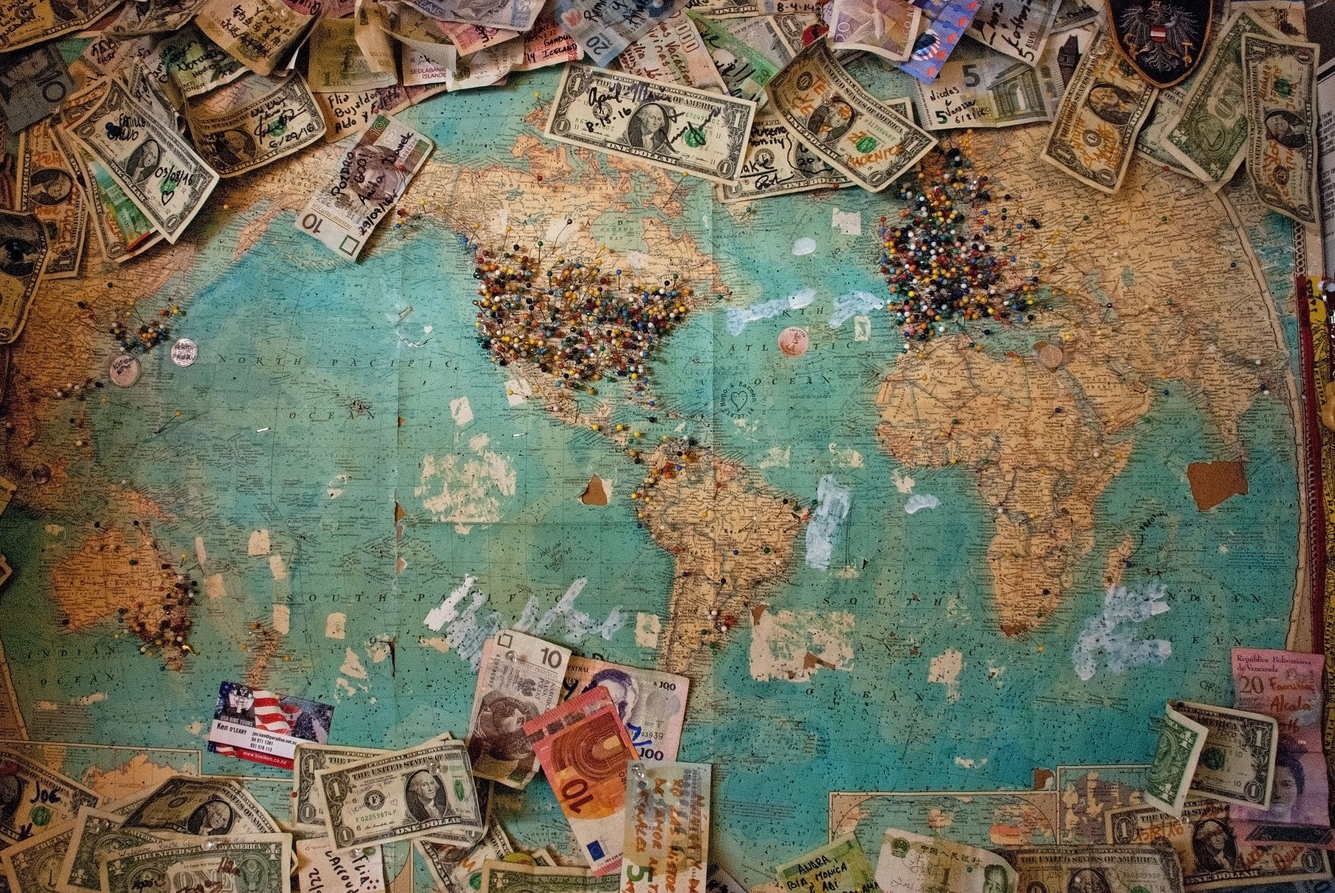
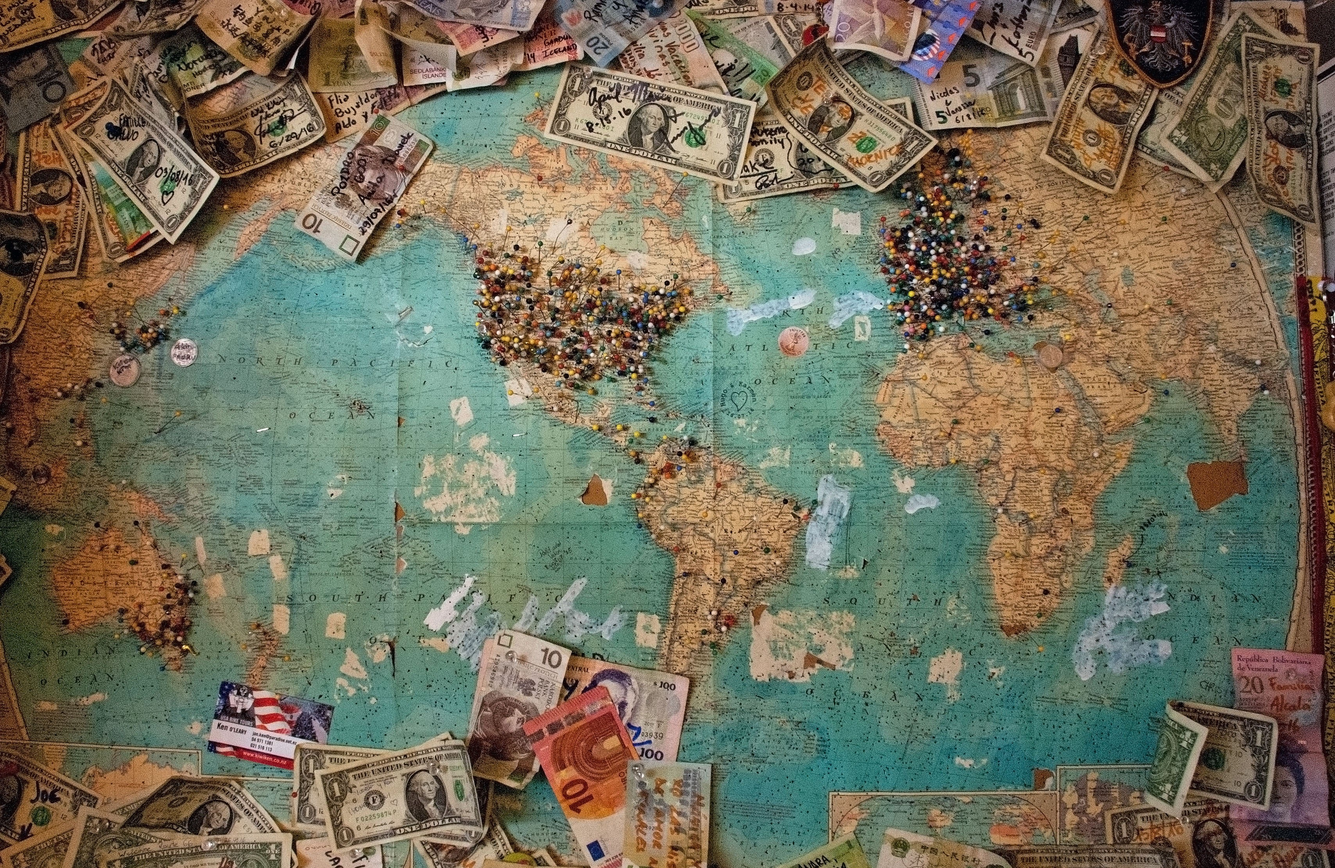
Changed the home page view.
-Resized map.jpg to match other images
- Enabled linking options for the locations,ratings and reviews page

diff --git a/index.html b/index.html
@@ -50,6 +50,13 @@
         .navbar{
             width: 100%;
         }
+
+        #locationImage{
+          width: 100%;
+        }
+
+        
+
     </style>
     <title>Food Web</title>
 
@@ -94,12 +101,12 @@
 
     <form class="form-inline">
         <div class="form-group">
-            <label class="sr-only" for="email">Email Address</label>
 
             <div class="input-group">
-                <input id ="searchButton" type="text" class="form-control" id="email" placeholder="Type your search here">
+                <input  type="text" class="form-control" id="email" placeholder="Type your search here">
             </div>
         </div>
+
 
 
         <button type="submit" class="btn btn-primary">Search</button>
@@ -119,10 +126,11 @@
 <div class="container" id="about">
     <div class="card-deck" >
         <div class="card">
-            <img class="card-img-top" src="images/map.jpg" alt="Card image cap">
+            <a href="#"> <img class="card-img-top" id="locationImage" src="images/map.jpg" alt="Card image cap"></a>
             <div class="card-body">
+                <a href= "#" >
                 <h4 class="card-title"><i class="fa fa-map-marker" aria-hidden="true"></i>
-                    Location</h4>
+                    Location</a></h4>
                 <p class="card-text">Gives you search results according to your location.</p>
 
             </div>
@@ -131,18 +139,22 @@
             <a href = "ratings.html"><img class="card-img-top" src="images/ratingstar.jpg" alt="Card image cap"></a>
             <div class="card-body">
                 <a href = "ratings.html">
-                    <h4 class="card-title"><i class="fa fa-star" aria-hidden="true"></i>Ratings</h4>
-                    <p class="card-text">Sorts the search results according to the ratings.</p>
+                    <h4 class="card-title"><i class="fa fa-star" aria-hidden="true"></i> Ratings</h4>
                 </a>
+                    <p class="card-text">Sorts the search results according to the ratings.</p>
+
 
             </div>
         </div>
         <div class="card">
             <a href="review.html">  <img class="card-img-top" src="images/review.jpg" alt="Card image cap" ></a>
             <div class="card-body">
-                <a href="review.html">  <h4 class="card-title"><i class="fa fa-sticky-note" aria-hidden="true"></i>
+                <a href="review.html">
+                    <h4 class="card-title"><i class="fa fa-sticky-note" aria-hidden="true"></i>
                     Write a Review</h4>
-                    <p class="card-text">Give ratings and add reviews about your experience</p></a>
+                </a>
+
+                    <p class="card-text">Give ratings and add reviews about your experience</p>
 
             </div>
         </div>
